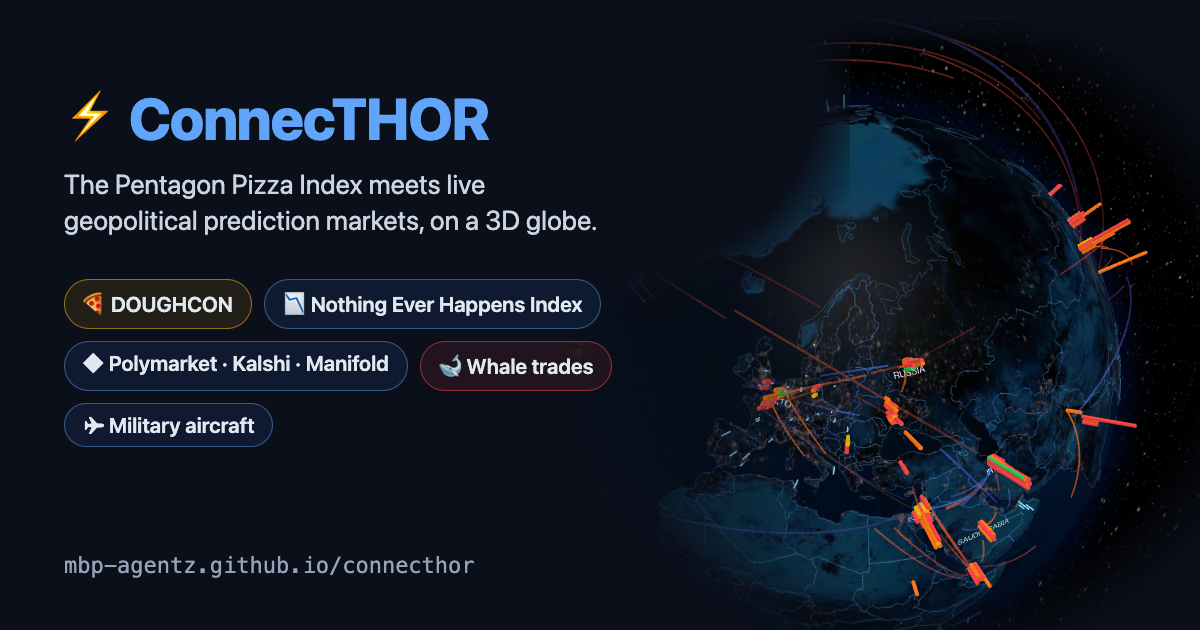
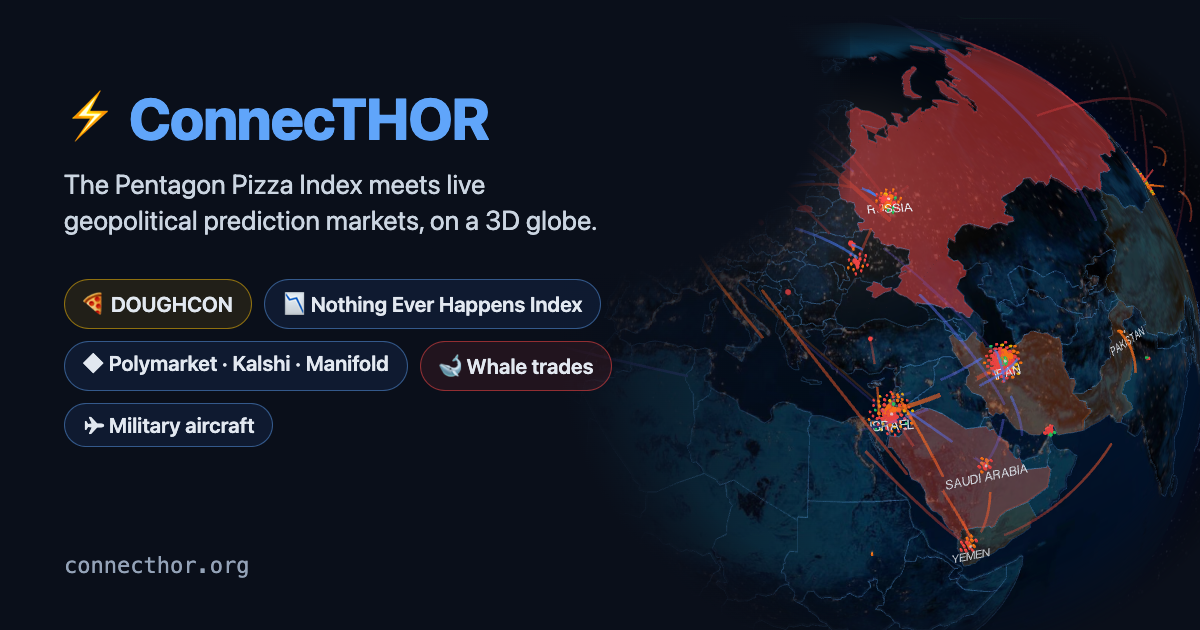
Move to connecthor.org
- og:url, og:image, twitter:image and a canonical link point to
  https://connecthor.org
- New 1200x630 share card: glow dots + hotspot shading, connecthor.org
- GitHub Pages copy forwards to connecthor.org (keeps #m= market links),
  since only the Cloudflare deployment runs the /api proxy
- README live link; CLAUDE.md: domain setup and manual redeploy; HISTORY
  entries for Oct 25 - Nov 3

Changed region(s): [[0.5242, 0.0302, 1.0, 1.0], [0.0617, 0.8746, 0.4008, 0.9349]]

diff --git a/index.html b/index.html
@@ -8,17 +8,23 @@
   <meta name="theme-color" content="#0a0f1a">
   <meta property="og:title" content="ConnecTHOR — Pizza Index & Market Intel">
   <meta property="og:description" content="Pentagon Pizza Index, DOUGHCON level and live geopolitical prediction markets on a 3D globe.">
+  <script>
+    // The GitHub Pages copy forwards to the real domain: only there does the /api proxy run
+    // (Kalshi, news, military aircraft). Keeps a shared #m=<market> link intact.
+    if(/github\.io$/.test(location.hostname))location.replace('https://connecthor.org/'+location.hash);
+  </script>
   <link rel="icon" href="favicon.ico" sizes="any">
   <link rel="icon" type="image/svg+xml" href="favicon.svg">
   <link rel="icon" type="image/png" sizes="32x32" href="favicon-32.png">
   <link rel="apple-touch-icon" href="apple-touch-icon.png">
-  <meta property="og:image" content="https://mbp-agentz.github.io/connecthor/og-image.png">
+  <meta property="og:image" content="https://connecthor.org/og-image.png">
   <meta property="og:image:width" content="1200">
   <meta property="og:image:height" content="630">
-  <meta property="og:url" content="https://mbp-agentz.github.io/connecthor/">
+  <meta property="og:url" content="https://connecthor.org/">
+  <link rel="canonical" href="https://connecthor.org/">
   <meta property="og:type" content="website">
   <meta name="twitter:card" content="summary_large_image">
-  <meta name="twitter:image" content="https://mbp-agentz.github.io/connecthor/og-image.png">
+  <meta name="twitter:image" content="https://connecthor.org/og-image.png">
   <script src="https://unpkg.com/react@18.3.1/umd/react.production.min.js"></script>
   <script src="https://unpkg.com/react-dom@18.3.1/umd/react-dom.production.min.js"></script>
   <script src="https://unpkg.com/react-globe.gl@2.27.2"></script>

diff --git a/CLAUDE.md b/CLAUDE.md
@@ -7,7 +7,8 @@ For the background (what the owner asked for, the timeline, and why things were 
 A single-page "situation monitor" inspired by PizzINT (pizzint.watch). A 3D globe shows geopolitical prediction markets, with a Pentagon Pizza Index / DOUGHCON panel, a "Nothing Ever Happens" (NEH) index, live trades, military aircraft and a news feed.
 
 - Repo: https://github.com/mbp-agentz/connecthor (moved from `dekabet/connecthor` in Oct 2026; PRs #1–#3 were made there)
-- Live site: https://mbp-agentz.github.io/connecthor/ (GitHub Pages, deploys from `main`). The old `dekabet.github.io/connecthor` URL is no longer the one to share.
+- Live site: **https://connecthor.org** (domain registered at GoDaddy, DNS on Cloudflare, served by the Cloudflare Pages project `connecthor` on the seeberger.seo@gmail.com account, with `/api`). `connecthor.pages.dev` is the same project. The GitHub Pages copy (https://mbp-agentz.github.io/connecthor/, deploys from `main`) forwards to connecthor.org via a small script in `<head>`.
+- Cloudflare Pages is **not** Git-connected: after a merge, redeploy with `git archive origin/main` into a clean folder, then `npx wrangler pages deploy . --project-name connecthor --branch main` (or connect Git in the dashboard).
 - The app is **one static file**, `index.html`: React 18 UMD, react-globe.gl 2.27.2 and in-browser Babel 7.25.6, all pinned from unpkg. No build step, no package.json.
 - Backend (Cloudflare Pages only): `functions/api/[[path]].js`, an allow-listed, edge-cached proxy. Routes `gamma`, `data`, `clob`, `kalshi`, `manifold`, `predictit`, `adsb` (adsb.lol, then adsb.fi), `gdelt`, plus `news` (fetches and merges the five RSS feeds). `wrangler.toml` sets output dir `.`. Test locally with `npx wrangler pages dev .`.
 - `og-image.png` (1200×630) is the X/OG share card, rendered from a real screenshot.

diff --git a/HISTORY.md b/HISTORY.md
@@ -32,6 +32,9 @@ A summary of the original build conversation (Oct 2026), so a new Claude session
 9. **Launch review:** PizzINT credit, a footer, generic shop names and removing the NewsAPI key are still to do (see CLAUDE.md). A Cloudflare Pages + Functions move is recommended, so feeds go through a cached `/api` proxy that holds up under traffic.
 10. **Handoff:** CLAUDE.md and this file were written so the project can move to another repo/account and Claude session.
 11. **Move (2026-10-22):** the repo moved to `mbp-agentz/connecthor`; the site is now https://mbp-agentz.github.io/connecthor/. First work there: the pre-launch fixes (generic shop names, NewsAPI removed, footer with credit and disclaimer, share-card tags).
+12. **Cloudflare + more data (Oct 25–26):** the `/api` proxy, Kalshi, the night/day/live-sun globe; deployed to Cloudflare Pages (connecthor.pages.dev). Kalshi is rate-limited (429) from Cloudflare's shared IPs and needs an API key.
+13. **Map rework (Nov 2):** hotspot shading on conflict countries, glow-dot markers in a spiral layout that shrink with zoom, and a per-country market list (the owner found the 3D bars looked like a 2017 strategy game).
+14. **Real domain (Nov 3):** connecthor.org (GoDaddy registration, Cloudflare DNS + Pages); GitHub Pages forwards there.
 
 ## Decisions and why
 | Decision | Why |

diff --git a/README.md b/README.md
@@ -2,6 +2,8 @@
 
 Pentagon Pizza Index + geopolitical prediction-market intel on a 3D globe, in a single static `index.html`. Inspired by [PizzINT](https://www.pizzint.watch/).
 
+**Live: https://connecthor.org**
+
 ## Features
 
 - **🍕 Pentagon Pizza Watch** - "Popular Times"-style busyness charts for pizza shops near the Pentagon, each scored against its usual level for that hour (QUIET / NOMINAL / BUSY / SPIKE)
